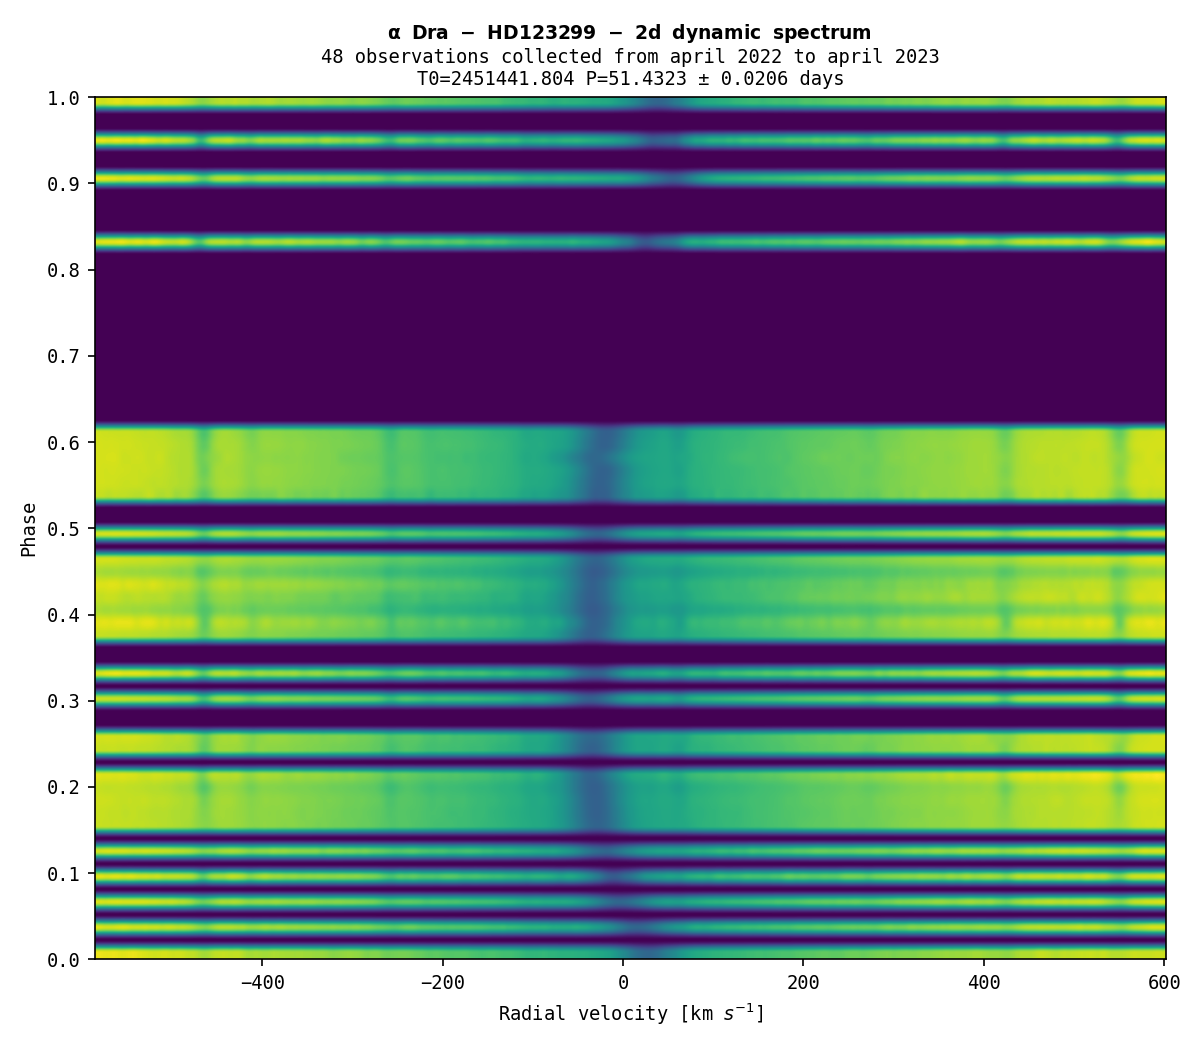
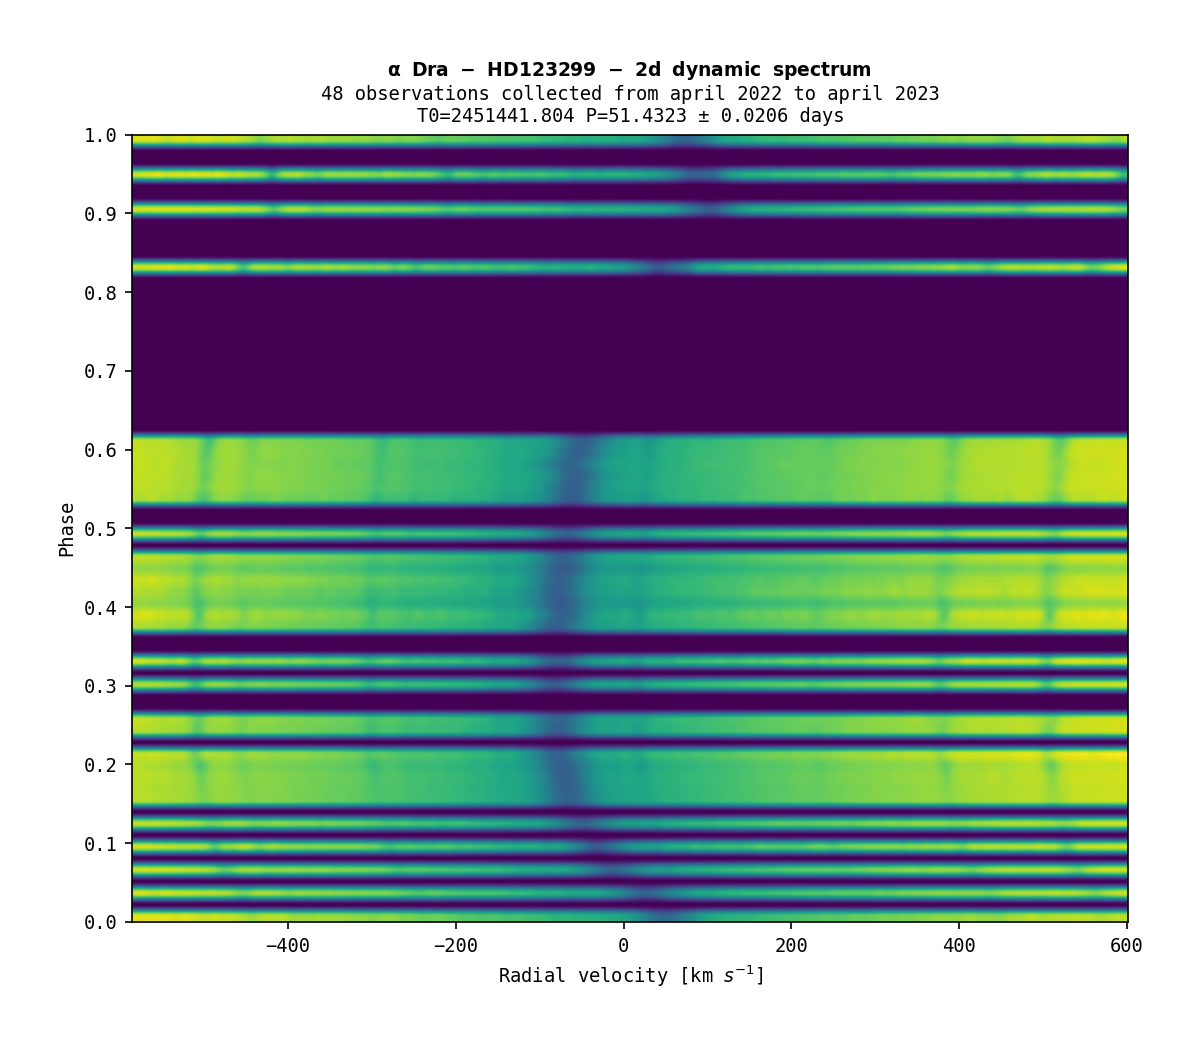
fix error on 2d spectrum

diff --git a/spectroscopicbinarysystem/__init__.py b/spectroscopicbinarysystem/__init__.py
@@ -1,5 +1,6 @@
 import re
 import os
+import copy
 import math
 import warnings
 
@@ -727,8 +728,12 @@ class SpectroscopicBinarySystem:
 
         # resample each spectrum
         for s in self._sb_spectra:
+            ss = copy.copy(s)
+            # apply heliocentric/barycentric correction
+            ss.shift_spectrum_to(
+                radial_velocity=s.getRV()*u.km/u.s)
             fluxc_resample = LinearInterpolatedResampler()
-            output_spectrum1D = fluxc_resample(s, sc)
+            output_spectrum1D = fluxc_resample(ss, sc)
             phase = s.getPhase()
             indice = int(round(phase, 2) * len(y_phase))
             spec2d[:, indice] = output_spectrum1D.flux
@@ -751,7 +756,7 @@ class SpectroscopicBinarySystem:
         ax.set_title("%s\n%s" % (t, subtitle), fontsize=9,
                      fontweight="0", color='black')
 
-        plt.tight_layout(pad=1, w_pad=0, h_pad=1)
+        plt.tight_layout(pad=3, w_pad=0, h_pad=1)
         plt.yticks(np.arange(0, 1.01, 0.1))
         if savefig:
             plt.savefig(
